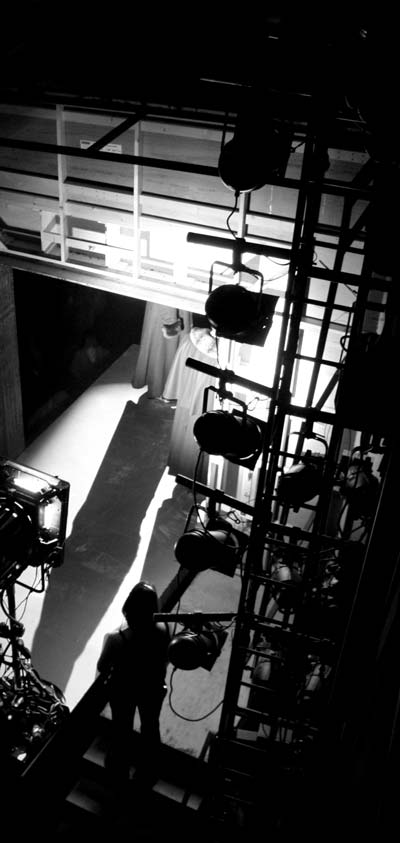
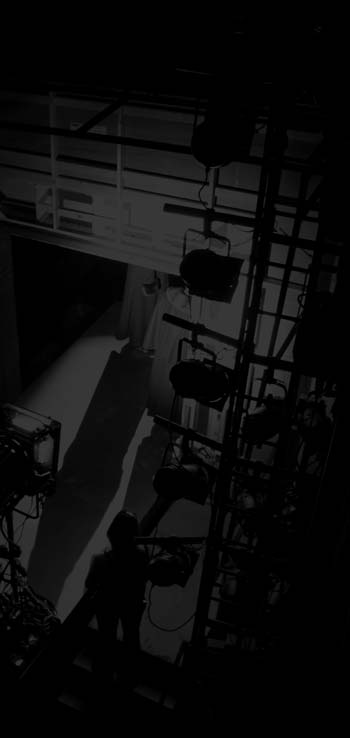
Adjust of mobile responsiveness
And also Background Image and Breadcrumb

diff --git a/application/views/auth/edit_user.php b/application/views/auth/edit_user.php
@@ -1,5 +1,10 @@
 
-
+<style type="text/css">
+  body{
+    background-image: url('<?php echo base_url('assets/img/tcb/tcb-backstage.jpg'); ?>');
+    background-repeat: no-repeat;
+  } 
+</style>
 
 <div class="row">
   <div class="col-xs-12 ">
@@ -18,11 +23,18 @@
   </div>
   
   <div class="col-xs-1 col-md-1 text-center basetxt">
-  	<img class="img-responsive" src="<?php echo base_url('assets/img/tcb/846766.gif')."?=".rand(1,100); ?>" alt="846766" width="100px"/>
   </div>
   <div class="col-xs-9 col-md-9 text-left">
   
-		<span class="txttitle"><!-- Edit your info --></span>
+    <div class="pull-right">
+        <img class="img-responsive" src="<?php echo base_url('assets/img/tcb/846766.gif')."?=".rand(1,100); ?>" width="50"/>
+      </div>
+
+		<span class="pull-right">
+    <?php $iduser=$tcbuser->id;?>
+    <a href="/tcb/backstage/<?php echo $iduser; ?>" > Backstage</a>
+      <span class="text-muted">/ Edit your info</span>
+    </span>
 		<br/>
 	  <div class="fhr"></div>		
 
@@ -581,7 +593,7 @@
           <br/><br/>
           <input type="submit" name="submit" value="Save" class="btn btn-success btn-lg">
 
-          <?php $iduser=$tcbuser->id;?>
+          
           <a href="/tcb/backstage/<?php echo $iduser; ?>" class="btn btn-default btn-sm"> Go back without saving</a>
 
         </div> <!--  CLOSE ACCORDION -->

diff --git a/application/views/pages/zone.php b/application/views/pages/zone.php
@@ -1,3 +1,10 @@
+<style type="text/css">
+	body{
+    background-image: url('<?php echo base_url('assets/img/tcb/tcb-backstage.jpg'); ?>');
+    background-repeat: no-repeat;
+	} 
+</style>
+
 
 <div class="row">
   <div class="col-xs-12 ">
@@ -8,13 +15,22 @@
 <!-- r2 -->
 
 <div class="row basetxt">
-  <div class="col-xs-1 col-md-1 text-center basetxt">
+  <div class=" col-sm-1 col-md-1 text-center basetxt">
   </div>
-  <div class="col-xs-2 col-md-2 text-center basetxt">
-  	<img class="img-responsive" src="<?php echo base_url('assets/img/tcb/846766.gif')."?=".rand(1,100); ?>" alt="846766"/>
+  <div class="col-xs-1 col-sm-1 col-md-1 text-center basetxt">
+  	
   </div>
-  <div class="col-xs-7 col-md-7 text-left">
+  <div class="col-xs-9 col-sm-9 col-md-8 text-left">
+
+
+  <!-- <div class="col-xs-1 col-sm-1 col-md-2"> -->  <!-- ERASE -->
+
+
+  		<div class="pull-right">
+  			<img class="img-responsive" src="<?php echo base_url('assets/img/tcb/846766.gif')."?=".rand(1,100); ?>" width="50"/>
+  		</div>
   		<span class="txttitle" title="UX Designer">Backstage</span>
+  		
       <br/>
   		<br/>
 		
@@ -234,9 +250,9 @@
 		    </p> 
 		  </div>
 
-			<div class="col-xs-1 col-md-1 text-center basetxt lead">
-			</div>
-		</div> <!-- CLOSE ROW -->
+	<div class="col-sm-1 col-md-2">
+	</div>
+</div> <!-- CLOSE ROW -->
 
 
 				
